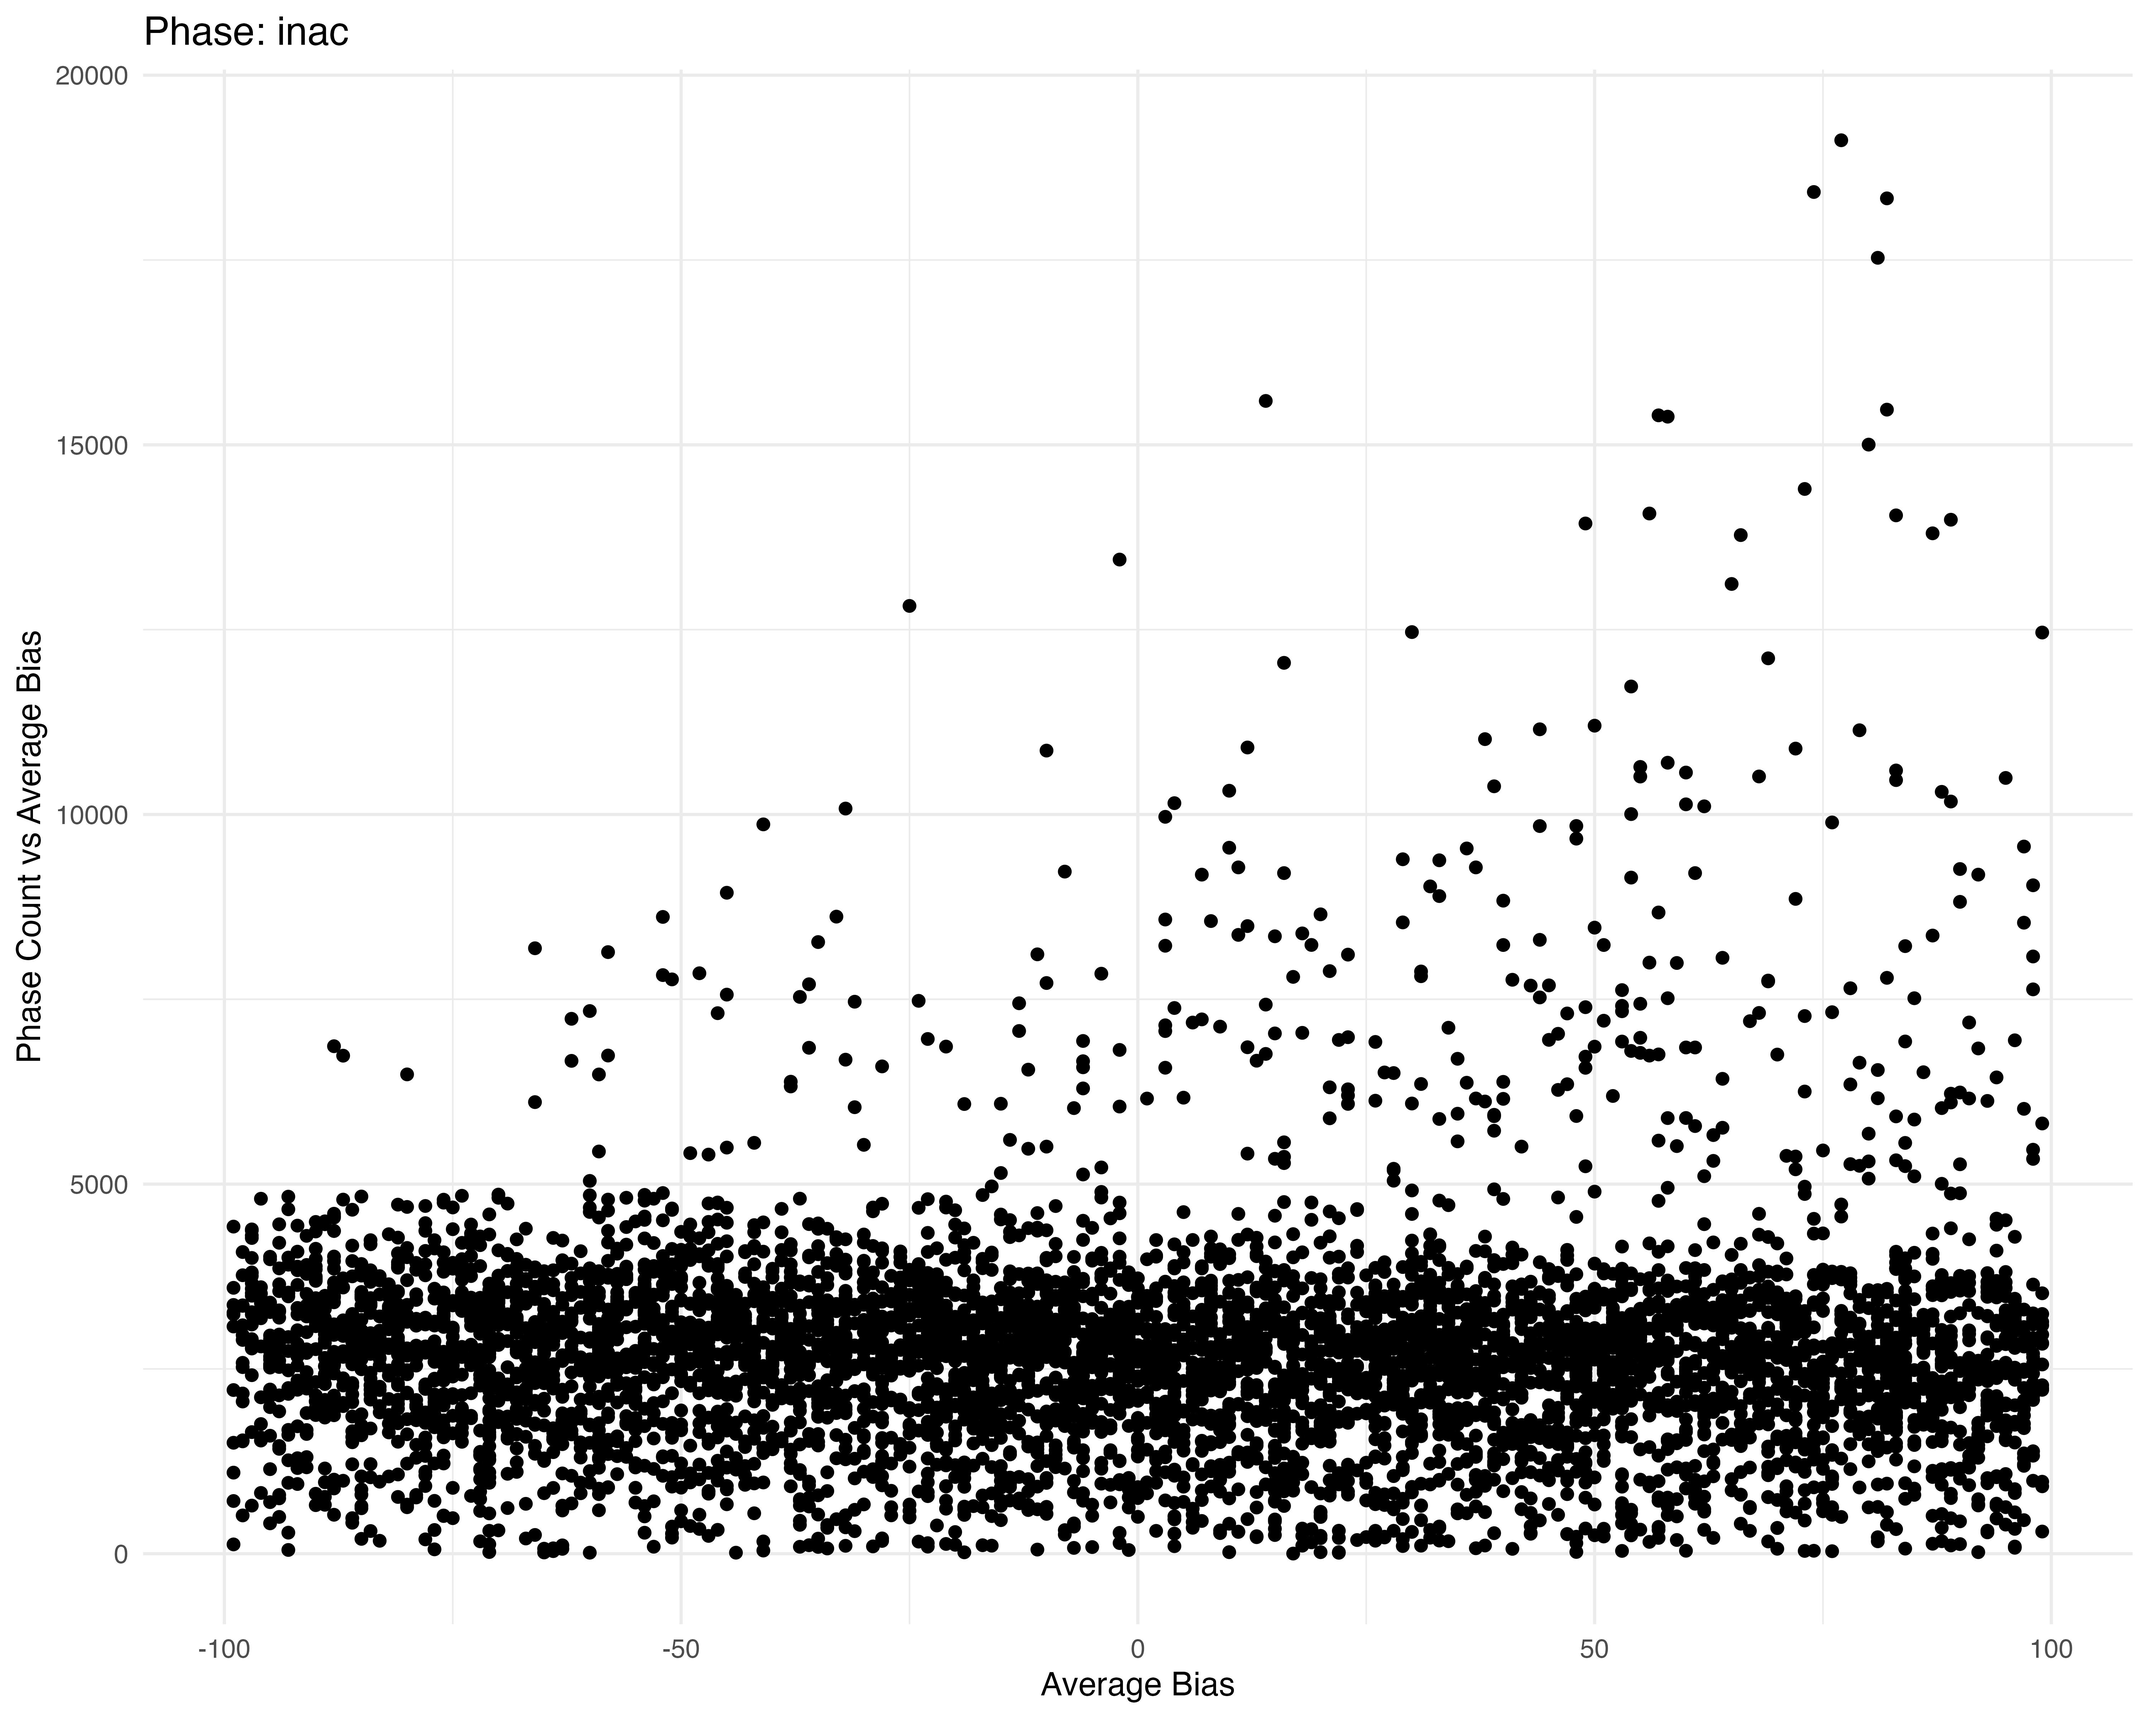
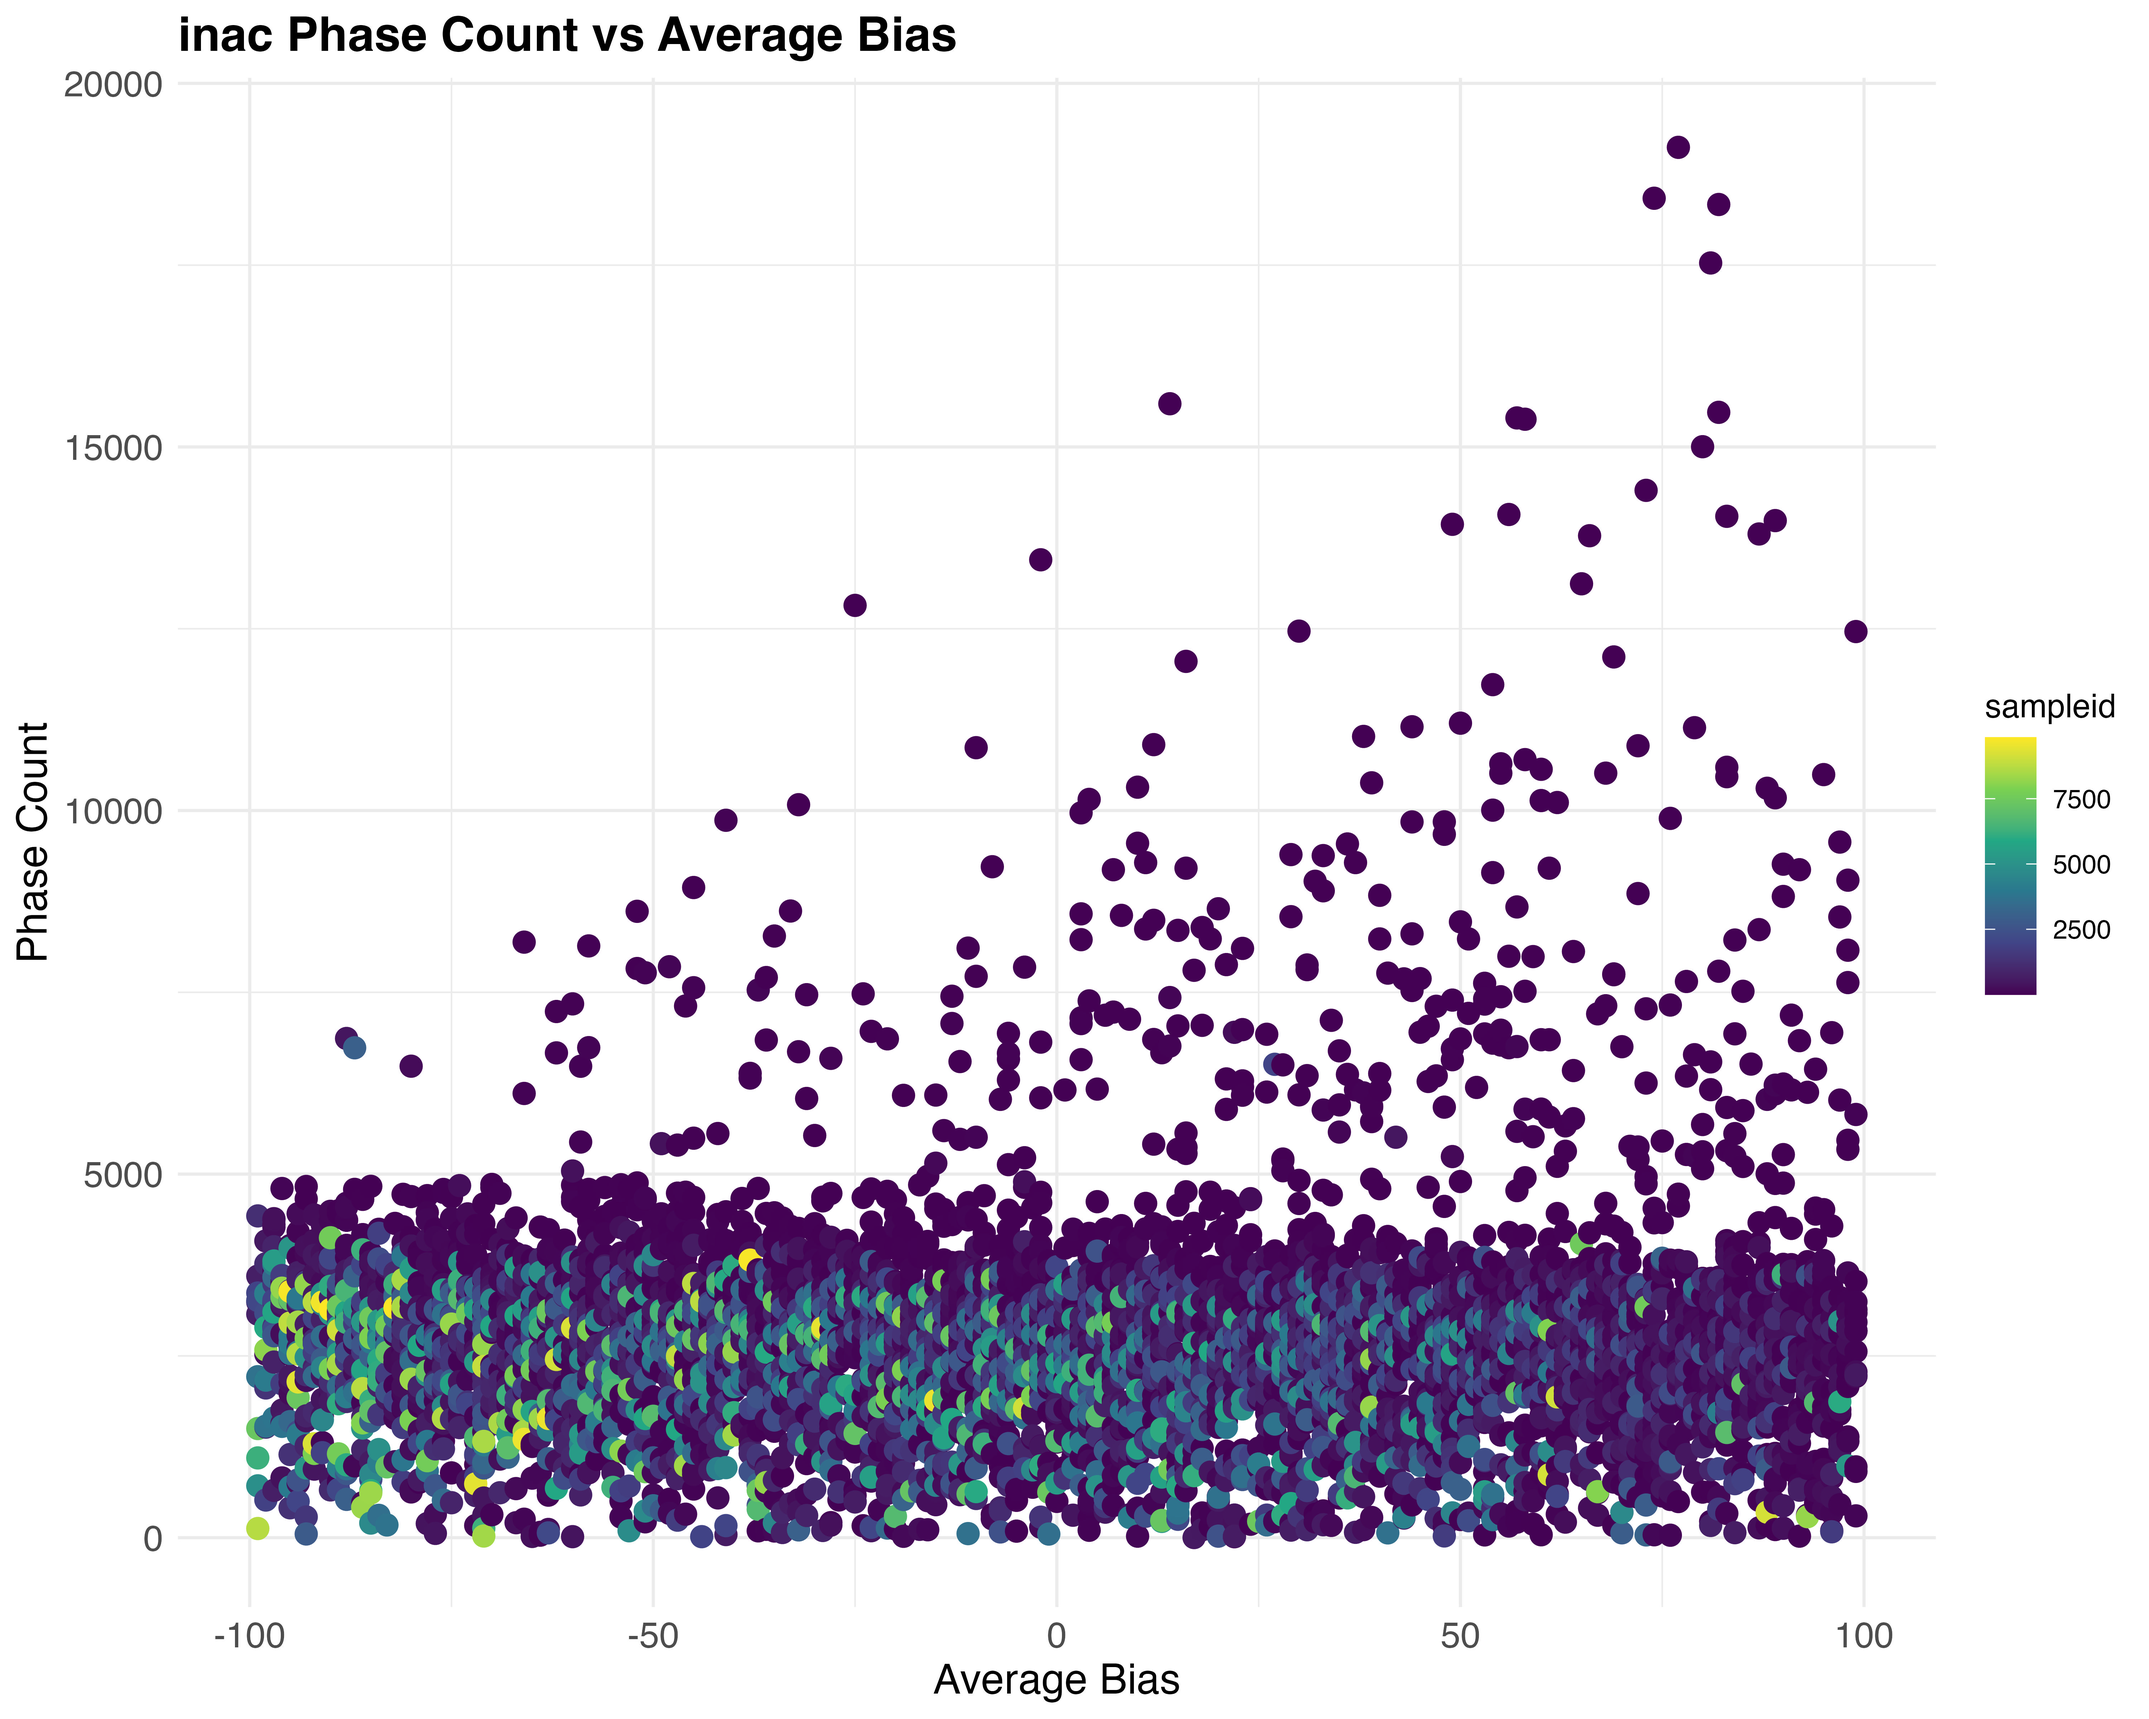
clean

diff --git a/PhaseLength.md b/PhaseLength.md
@@ -13,7 +13,8 @@ Shashank Pritam
   R](#visualization-in-r)
   - [<span class="toc-section-number">3.1</span> Set the environment by
     loading modules](#set-the-environment-by-loading-modules)
-  - [<span class="toc-section-number">3.2</span> Load Data](#load-data)
+  - [<span class="toc-section-number">3.2</span> Load Data and Plot
+    Result](#load-data-and-plot-result)
 - [<span class="toc-section-number">4</span> Result: Phase Counts vs
   Average Bias](#result-phase-counts-vs-average-bias)
   - [<span class="toc-section-number">4.1</span> Rapid Phase Count vs
@@ -93,7 +94,7 @@ theme_set(theme_bw())
 
 </details>
 
-### Load Data
+### Load Data and Plot Result
 
 <details>
 <summary>Code</summary>
@@ -119,72 +120,37 @@ phase_counts <- all_data %>%
                 summarize(phase_count = n(), .groups = 'drop')
 
 # Function to create plots
-create_plot <- function(data, phase_name, y_label) {
+# Function to create plots
+create_plot <- function(data, phase_name, x_label, y_label) {
     ggplot(data %>% filter(phase == phase_name), aes(x = avbias, y = phase_count)) +
-    geom_point() +
-    labs(title = paste("Phase:", phase_name), x = "Average Bias", y = y_label) +
-    theme_minimal()
+    geom_point(aes(color = sampleid), size = 3) +
+    scale_color_viridis_c() +
+    labs(title = paste(phase_name, "Phase Count vs", x_label), x = x_label, y = y_label) +
+    theme_minimal() +
+    theme(plot.title = element_text(size = 16, face = "bold"),
+          axis.title = element_text(size = 14),
+          axis.text = element_text(size = 12))
 }
 
 # Create and save plots
-plot_rapi_avbias <- create_plot(phase_counts, "rapi", "Phase Count vs Average Bias")
-plot_shot_avbias <- create_plot(phase_counts, "shot", "Phase Count vs Average Bias")
-plot_inac_avbias <- create_plot(phase_counts, "inac", "Phase Count vs Average Bias")
+plot_rapi_avbias <- create_plot(phase_counts, "rapi", "Average Bias", "Phase Count")
+plot_shot_avbias <- create_plot(phase_counts, "shot", "Average Bias", "Phase Count")
+plot_inac_avbias <- create_plot(phase_counts, "inac", "Average Bias", "Phase Count")
 
-plot_rapi_sampleid <- create_plot(phase_counts, "rapi", "Phase Count vs piRNA Cluster Size")
-plot_shot_sampleid <- create_plot(phase_counts, "shot", "Phase Count vs piRNA Cluster Size")
-plot_inac_sampleid <- create_plot(phase_counts, "inac", "Phase Count vs piRNA Cluster Size")
+plot_rapi_sampleid <- create_plot(phase_counts, "rapi", "piRNA Cluster Size", "Phase Count")
+plot_shot_sampleid <- create_plot(phase_counts, "shot", "piRNA Cluster Size", "Phase Count")
+plot_inac_sampleid <- create_plot(phase_counts, "inac", "piRNA Cluster Size", "Phase Count")
 
 # Define images path
 images_path <- "images"
 
 # Save the plots
 ggsave(filename = file.path(images_path, "phase_count_rapi_avbias.jpg"), plot = plot_rapi_avbias, width = 10, height = 8, dpi = 600)
-```
-
-</details>
-
-    Warning: Removed 559 rows containing missing values (`geom_point()`).
-
-<details>
-<summary>Code</summary>
-
-``` r
 ggsave(filename = file.path(images_path, "phase_count_shot_avbias.jpg"), plot = plot_shot_avbias, width = 10, height = 8, dpi = 600)
-```
-
-</details>
-
-    Warning: Removed 239 rows containing missing values (`geom_point()`).
-
-<details>
-<summary>Code</summary>
-
-``` r
 ggsave(filename = file.path(images_path, "phase_count_inac_avbias.jpg"), plot = plot_inac_avbias, width = 10, height = 8, dpi = 600)
 
 ggsave(filename = file.path(images_path, "phase_count_rapi_sampleid.jpg"), plot = plot_rapi_sampleid, width = 10, height = 8, dpi = 600)
-```
-
-</details>
-
-    Warning: Removed 559 rows containing missing values (`geom_point()`).
-
-<details>
-<summary>Code</summary>
-
-``` r
 ggsave(filename = file.path(images_path, "phase_count_shot_sampleid.jpg"), plot = plot_shot_sampleid, width = 10, height = 8, dpi = 600)
-```
-
-</details>
-
-    Warning: Removed 239 rows containing missing values (`geom_point()`).
-
-<details>
-<summary>Code</summary>
-
-``` r
 ggsave(filename = file.path(images_path, "phase_count_inac_sampleid.jpg"), plot = plot_inac_sampleid, width = 10, height = 8, dpi = 600)
 ```
 

diff --git a/Minimum_Fitness.md b/Minimum_Fitness.md
@@ -116,7 +116,7 @@ load_data <- function(folder_path, u_value) {
   df_final <- select(df_final, rep, popstat, avbias, sampleid, min_w)
   
   # Calculate sampleid_percent
-  df_final$sampleid_percent <- (df_final$sampleid / 10000000) * 100
+  df_final$sampleid_percent <- (df_final$sampleid / 10000000) * 100 ## At the time of writing this code the piRNA Cluster was generated in base pairs, now it is generated in kb. So to replicate this one should use 10000000/1000 instead of 10000000 to divide.
   
   # Filter out fail-0 and fail-w
   df_filtered = df_final %>% filter(!popstat %in% c("fail-0", "fail-w"))
